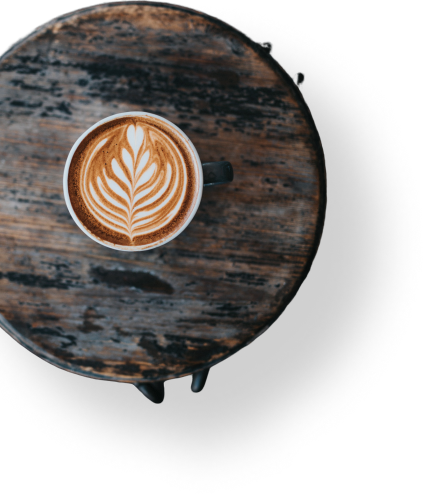
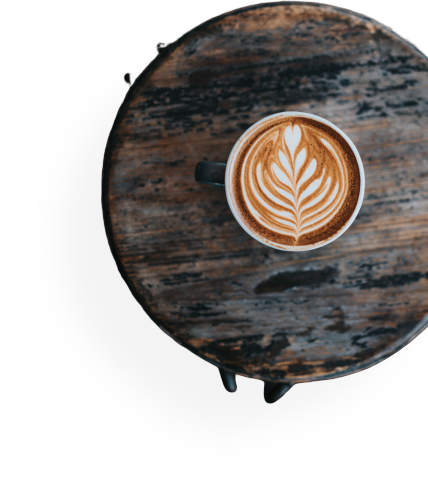
animation header

diff --git a/components/Hero.jsx b/components/Hero.jsx
@@ -1,42 +1,63 @@
 "use client";
 import Image from "next/image";
-import { motio } from "framer-motion";
+import { motion } from "framer-motion";
 import { fadeIn } from "../variants";
 import { Button } from "./ui/button";
 
 const Hero = () => {
   return (
     <section
-      className="bg-hero1 lg:bg-hero bg-no-repeat  bgrota relative  xl:bg-cover xl:h-[1098px] py-40 pb-32 xl:py-0"
+      className="bg-hero1 xl:bg-hero bg-no-repeat relative xl:bg-cover xl:h-[1098px] py-40 pb-32 xl:py-0"
       id="home"
     >
-      <div className="container mx-auto">
+      <div className="container max-w-[1280px] mx-auto">
         {/* text and image */}
         <div className="flex items-center xl:h-[960px]">
-            {/* text */}
+          {/* text */}
           <div className="w-full xl:max-w-[460px] text-center xl:text-right">
-            <h1 className="text-white mb-7">
+            <motion.h1
+              variants={fadeIn("down", 0.2)}
+              initial="hidden"
+              whileInView={"show"}
+              viewport={{ onse: false, amount: 0.4 }}
+              className="text-white mb-7"
+            >
               رستوران های زنجیره ای <br />
               نکست جی اس
-            </h1>
-            <p className="text-white font-semibold mb-7">
+            </motion.h1>
+            <motion.p
+              variants={fadeIn("down", 0.4)}
+              initial="hidden"
+              whileInView={"show"}
+              viewport={{ onse: false, amount: 0.4 }}
+              className="text-white font-semibold mb-7"
+            >
               توسط : <span className="text-orange">حسین زحمتکشان</span>
-            </p>
-            <p className="text-white mb-12 max-w-lg mx-auto xl:max-w-none xl:mx-0">
+            </motion.p>
+            <motion.p
+              variants={fadeIn("down", 0.6)}
+              initial="hidden"
+              whileInView={"show"}
+              viewport={{ onse: false, amount: 0.4 }}
+              className="text-white mb-12 max-w-lg mx-auto xl:max-w-none xl:mx-0"
+            >
               لورم ایپسوم متن ساختگی با تولید سادگی نامفهوم از صنعت چاپ، و با
               استفاده از طراحان گرافیک است، چاپگرها و متون بلکه روزنامه و مجله
               در ستون و سطرآنچنان که لازم است، و برای شرایط فعلی تکنولوژی مورد
               نیاز، و کاربردهای متنوع با هدف بهبود ابزارهای کاربردی می باشد.
-            </p>
+            </motion.p>
             <div>
-                <Button>شروع سفارش</Button>
+              <Button>شروع سفارش</Button>
             </div>
           </div>
           {/* image */}
-          <div>
-            <Image src="/hero/plate.png" width={756} height={682} alt="."/>
+          <div className="hidden xl:flex xl:absolute xl:top-[200] xl:left-0">
+            <Image src="/hero/plate.png" width={756} height={682} alt="." />
           </div>
         </div>
+      </div>
+      <div className="hidden xl:flex xl:relative xl:-top-36">
+        <Image src="/hero/coffee.png" width={386} height={404} alt="." />
       </div>
     </section>
   );

diff --git a/app/layout.jsx b/app/layout.jsx
@@ -10,7 +10,7 @@ export const metadata = {
 
 export default function RootLayout({ children }) {
   return (
-    <html lang="en">
+    <html lang="fa">
       <body className={inter.className}>{children}</body>
     </html>
   );

diff --git a/tailwind.config.js b/tailwind.config.js
@@ -7,7 +7,6 @@ module.exports = {
     './app/**/*.{js,jsx}',
     './src/**/*.{js,jsx}',
   ],
-  prefix: "",
   theme: {
     container: {
       center: true,
